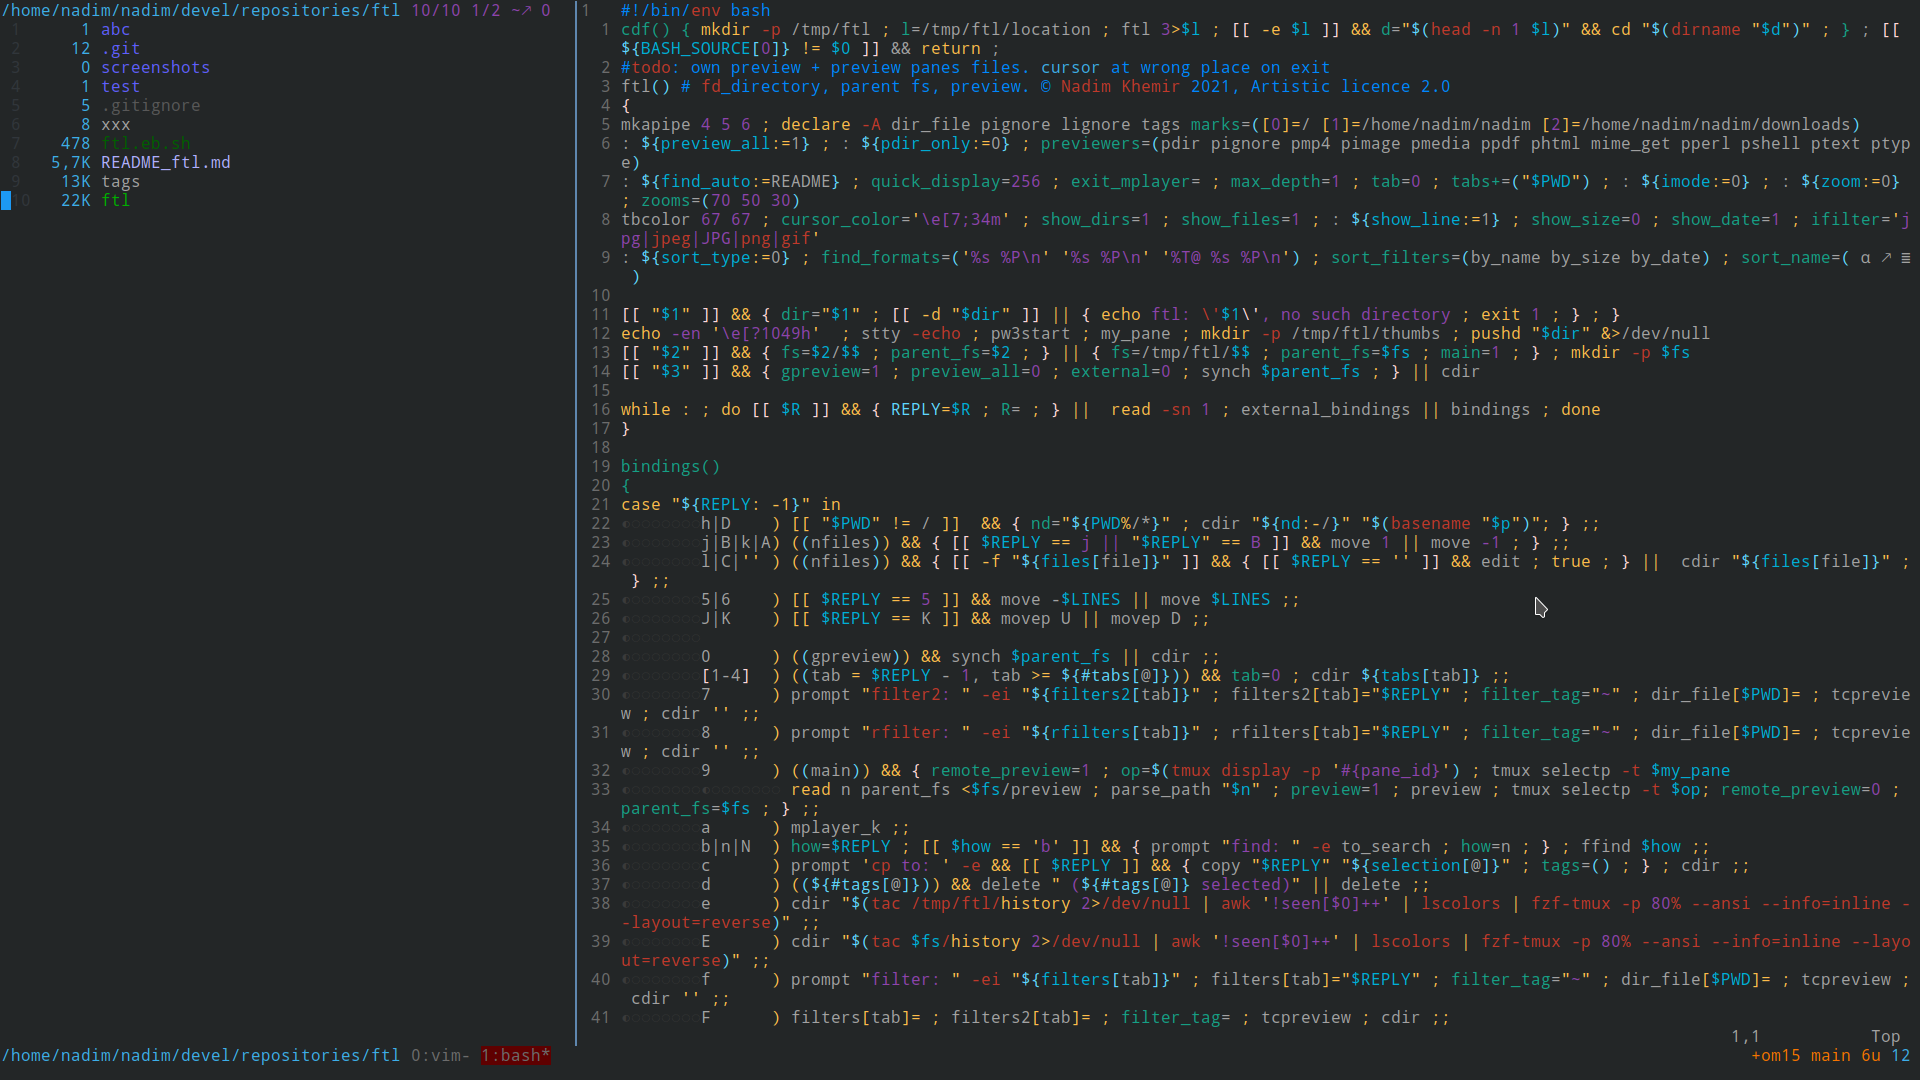
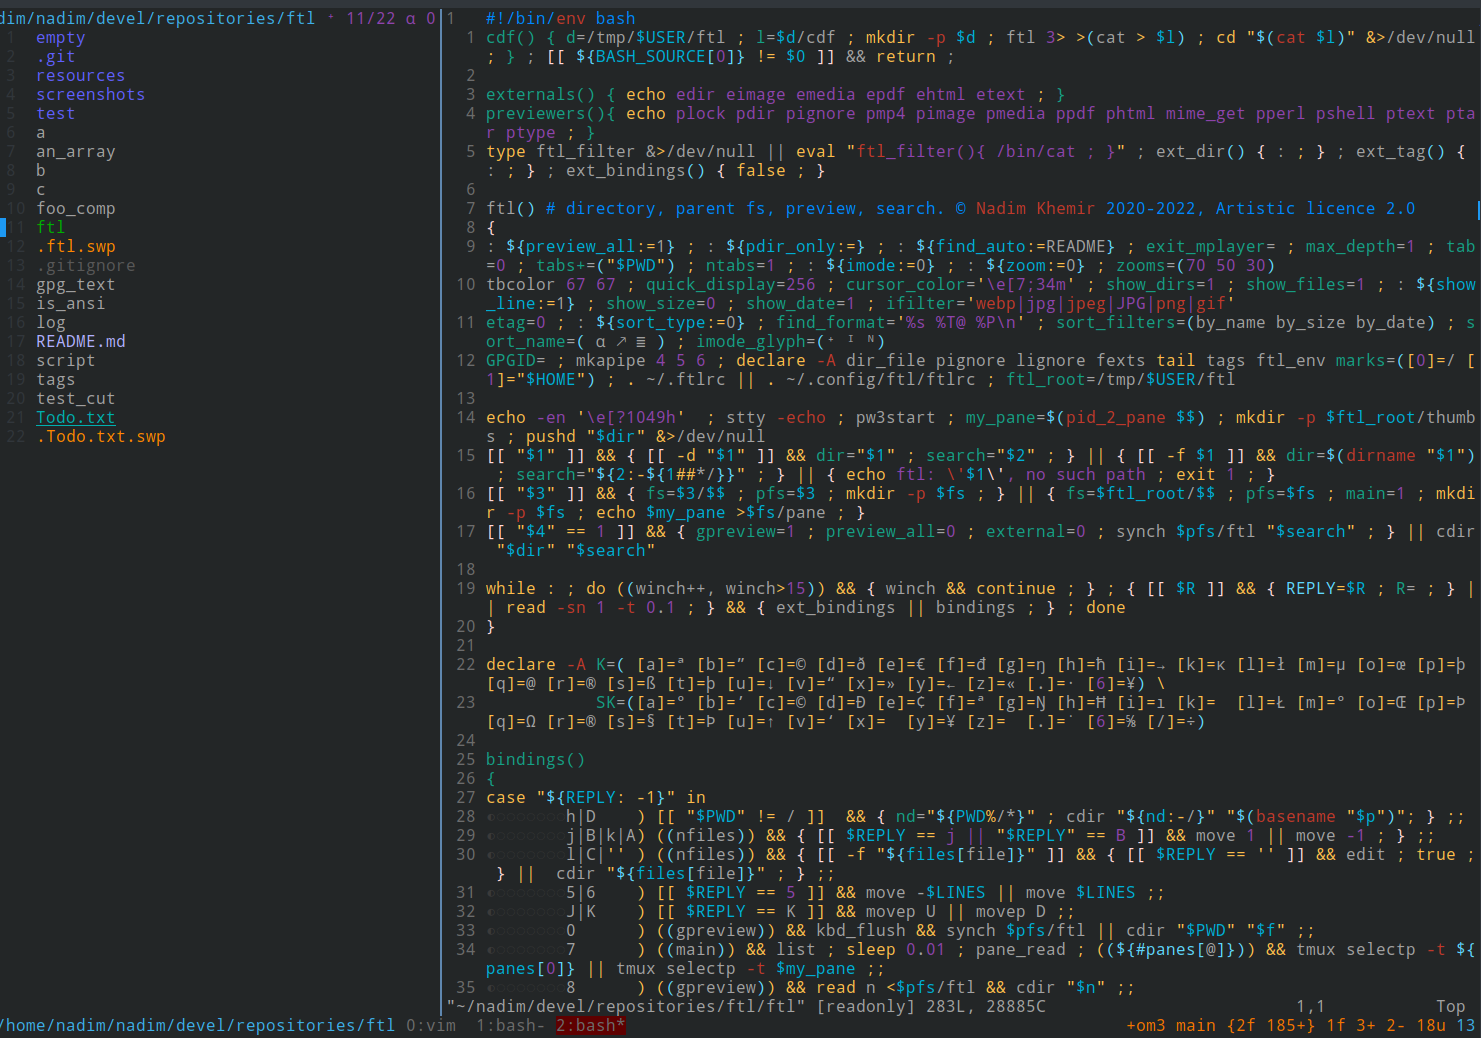
CHANGED: update screenshots and README

Changed region(s): [[0.0, 0.0, 1.0, 1.0], [0.7454, 0.9557, 1.0, 1.0], [0.7765, 0.5549, 0.9318, 0.5857]]

diff --git a/README.md b/README.md
@@ -10,45 +10,15 @@ b ⇑b   ) find/fzf entry in directory     k A     ) previous entry
 c      ) copy selection                  h D     ) parent directory
 ⇑c     ) compress/decompress             l C ''  ) cd or open file
 d      ) delete                          5 6     ) page down/up
-e E ⇑e ) cd (global) history,clear       § \t    ) new tab, nexttab
-⇈e     ) stat file (commmand example)
-f ⇑F ⇑f) filter1/2, external filter      ⇑6      ) reverse filter
-⇑d     ) clear filters                   % &     ) disable extension, enable all
-g G    ) first/last entry                /       ) fzf to file
-⇑g     ) cd                              \       ) fzf to directory
-i I    ) new file/directory              ⇑i      ) fzfi, using ueberzurg
-J K    ) scroll preview                  {       ) fzf to file with preview
-⇑k     ) clear persistent marks          , ;     ) persistent mark add/fzf
-L      ) symlink selection               }       ) rg to file
-⇈l ⇑l  ) lock/unlock entry preview
-m      ) mark directory                  ' ⇑'    ) go to mark
-M      ) image mode                      :       ) go to entry
-⇑m     ) mail                            . ⇑.    ) show/hide dot-files/etags
-n N    ) find next/previous              ½       ) open new ftl in pane
-o O    ) name/size/date sort, reverse    > <     ) extra pane
-p P    ) copy/move selection             _ | ¦   ) extra pane
-r ⇑r   ) refresh, refresh montage        -       ) next pane
-R      ) rename/bulk rename              ^       ) show/hide stat
-s      ) show/hide dir size              )       ) view file/dir mode
-S      ) separate editor preview          
-$ ⇑s   ) shell pane, zoomed              !       ) run shell command
-t ⇑t T ) fzf tag, +subdir, untag         *       ) maximum listing depth
-⇈t     ) tail file preview
-U u ⇑u ) un/tag all files, goto tag
-v V ⇑v ) preview hide, once, montage     #       ) show/hide extension preview
-w W    ) external viewer, detached       +       ) change preview size
-x X    ) chmod a+x, a-x                  =       ) preview directory only
-⇑x     ) PGP encrypt/decrypt             "       ) show/hide image preview
-y Y    ) tag/untag                       :command) commmand mode 
-⇑y     ) copy to clipboard               ' '     ) leader key
-Z z    ) force quit, zoom and quit       0       ) refresh
-⇑z     ) password encrypt/decrypt        8 9     ) internal usage
+... 
+
+for a complete list see resources/.config/ftl/help.md or press '?' in ftl
+
 
 ```
 
 ![Screenshot](https://raw.github.com/nkh/ftl/master/screenshots/ftl.png)
 ![Screenshot](https://raw.github.com/nkh/ftl/master/screenshots/image_preview.png)
-![Screenshot](https://raw.github.com/nkh/ftl/master/screenshots/tiled.png)
 
 # DOCUMENTATION
 
@@ -103,7 +73,6 @@ Only show images in the listing and directory preview; with multiple tabs, makes
 
 # TODO
 
-- keyboard buffer flushing
 - fzf scripts preview via vim not bat
 - vim file opener using ftl
  

diff --git a/resources/.config/ftl/help.md b/resources/.config/ftl/help.md
@@ -1,0 +1,47 @@
+# ftl help
+
+## Commands shortcuts (⇑: alt-gr, ⇈: shift+alt-gr)
+```
+q Q @  ) close, > &3, keep shell         ?       ) show help
+a      ) kill sound preview              j B     ) next entry
+b ⇑b   ) find/fzf entry in directory     k A     ) previous entry
+c      ) copy selection                  h D     ) parent directory
+⇑c     ) compress/decompress             l C ''  ) cd or open file
+d      ) delete                          5 6     ) page down/up
+e E ⇑e ) cd (global) history,clear       § \t    ) new tab, nexttab
+⇈e     ) stat file (commmand example)
+f F ⇑f) filter1/2, external filter      ⇑6      ) reverse filter
+⇑d     ) clear filters                   % &     ) disable extension, enable all
+g G    ) first/last entry                /       ) fzf to file
+⇑g     ) cd                              \       ) fzf to directory
+i I    ) new file/directory              ⇑i      ) fzfi, using ueberzurg
+J K    ) scroll preview                  {       ) fzf to file with preview
+⇑k     ) clear persistent marks          , ;     ) persistent mark add/fzf
+L      ) symlink selection               }       ) rg to file
+⇈l ⇑l  ) lock/unlock entry preview
+m      ) mark directory                  ' ⇑'    ) go to mark
+M      ) view mode                       :       ) go to entry
+⇑m     ) synch tags                      . ⇑.    ) show/hide dot-files/etags
+⇈m     ) mail
+n N    ) find next/previous              ½       ) open new ftl in pane
+o O    ) name/size/date sort, reverse    > <     ) extra pane
+p P    ) copy/move selection             _ | ¦   ) extra pane
+r ⇑r   ) refresh, refresh montage        -       ) next pane
+R      ) rename/bulk rename              ^       ) show/hide stat
+s      ) show/hide dir size              )       ) view file/dir mode
+S      ) separate editor preview          
+$ ⇑s   ) shell pane, zoomed              !       ) run shell command
+t ⇑t T ) fzf tag, +subdir, untag         *       ) maximum listing depth
+⇈t     ) tail file preview
+U u ⇑u ) un/tag all files, goto tag
+v V ⇑v ) preview hide, once, montage     #       ) show/hide extension preview
+w W    ) external viewer, detached       +       ) change preview size
+x X    ) chmod a+x, a-x                  =       ) preview directory only
+⇑x     ) PGP encrypt/decrypt             "       ) show/hide image preview
+y Y    ) tag/untag                       :command) commmand mode 
+⇑y     ) copy to clipboard               ' '     ) leader key
+Z z    ) force quit, zoom and quit       0       ) refresh
+⇑z     ) password encrypt/decrypt        8 9     ) internal usage
+
+```
+
